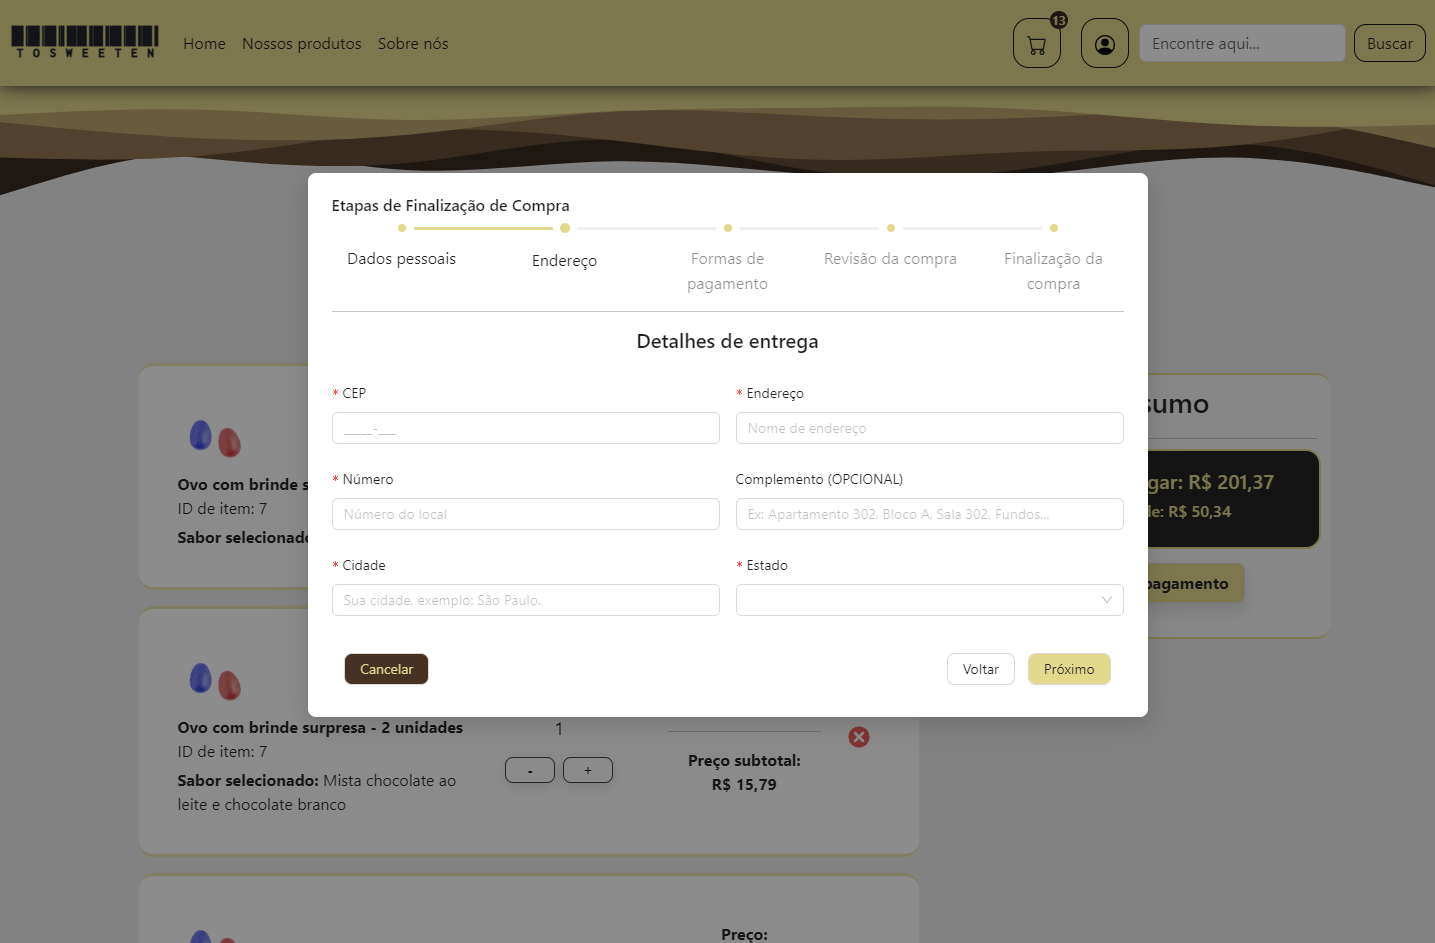
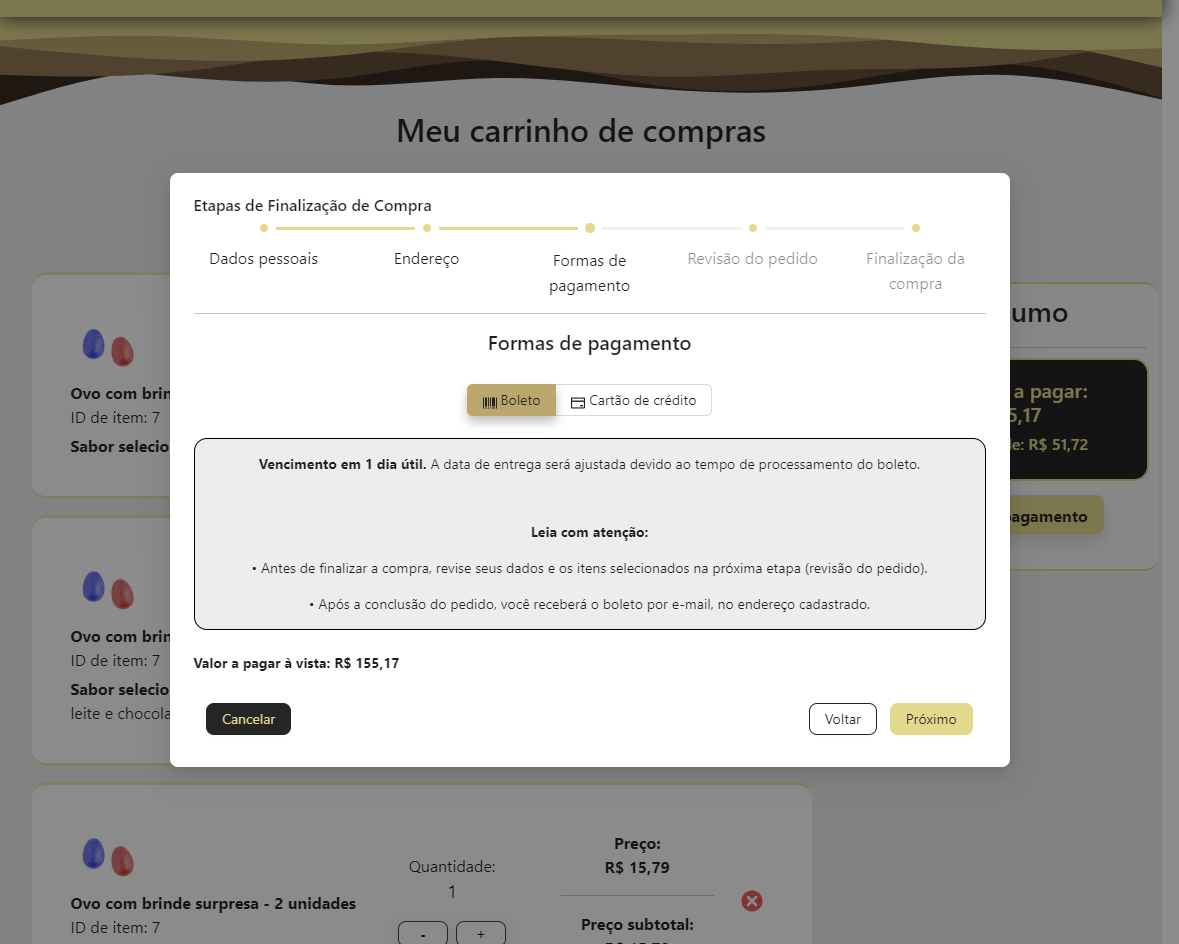
Implementação de componente Radio na opção de pagamento e atualização do estilo.

diff --git a/src/components/Inputs/CardDataInputs.jsx b/src/components/Inputs/CardDataInputs.jsx
@@ -1,11 +1,13 @@
 import ReCAPTCHA from "react-google-recaptcha";
-
 import PropTypes from "prop-types";
 import { FormCard } from "./forms/formCard";
 import { handleCardNameChange } from "../../utils/formatteDate/HandleCardNameChange";
 import { HandleCardNumberChange } from "../../utils/formatteDate/HandleCardNumberChange";
 import { HandleCardExpirationChange } from "../../utils/formatteDate/HandleVencimento";
 import { HandleCardCVVChange } from "../../utils/formatteDate/HandleCVVChange";
+import { PaymentMethodsRadio } from "../Radios/PaymentMethodsRadio";
+import { useState } from "react";
+import { SelectedPaymentIsBoleto } from "../Texts/SelectedPaymentIsBoleto";
 
 export function CardDataInputs({ formData, handleChange }) {
   const handleCardNameChangeWrapper = (e) => {
@@ -24,22 +26,33 @@ export function CardDataInputs({ formData, handleChange }) {
     HandleCardCVVChange(e.target.value, handleChange);
   };
 
+  const [selectedOption, setSelectedOption] = useState("Boleto");
+
   return (
     <div>
       <h5 className="center">Formas de pagamento</h5>
       <br />
-      <FormCard
-        formData={formData}
-        handleChange={handleChange}
-        handleCardNameChangeWrapper={handleCardNameChangeWrapper}
-        handleCardNumberChangeWrapper={handleCardNumberChangeWrapper}
-        handleCardExpirationChangeWrapper={handleCardExpirationChangeWrapper}
-        handleCardCVVChangeWrapper={handleCardCVVChangeWrapper}
-      />
-
-      <div style={{ margin: "2rem" }}>
-        <ReCAPTCHA sitekey="SUA_CHAVE_PUBLICA_DO_RECAPTCHA" />
-      </div>
+      <PaymentMethodsRadio setSelectedOption={setSelectedOption} />
+      <br />
+      {selectedOption === "Boleto" ? (
+        <SelectedPaymentIsBoleto />
+      ) : (
+        <>
+          <FormCard
+            formData={formData}
+            handleChange={handleChange}
+            handleCardNameChangeWrapper={handleCardNameChangeWrapper}
+            handleCardNumberChangeWrapper={handleCardNumberChangeWrapper}
+            handleCardExpirationChangeWrapper={
+              handleCardExpirationChangeWrapper
+            }
+            handleCardCVVChangeWrapper={handleCardCVVChangeWrapper}
+          />
+          <div style={{ margin: "2rem" }}>
+            <ReCAPTCHA sitekey="SUA_CHAVE_PUBLICA_DO_RECAPTCHA" />
+          </div>
+        </>
+      )}
     </div>
   );
 }

diff --git a/src/css/DialogPayment/buttonContainer.css b/src/css/DialogPayment/buttonContainer.css
@@ -3,10 +3,14 @@
   font-weight: bold;
   cursor: pointer;
   border-radius: 8px;
+  border-color: #453222 !important;
+  outline-color: #453222 !important;
 }
 
 .btn-container Button {
   border-radius: 8px !important;
+  border-color: #453222 !important;
+  outline-color: #453222 !important;
 }
 
 .custom-dialog-actions {
@@ -16,7 +20,9 @@
 }
 
 .btn-container Button:hover {
-  box-shadow: 0px 8px 20px rgba(000, 000, 000, 0.24);
+  box-shadow: 0px 4px 20px rgba(000, 000, 000, 0.24);
+  border-color: #453222 !important;
+  outline-color: #453222 !important;
 }
 
 .btn-container {
@@ -26,6 +32,8 @@
   gap: 1rem;
   padding: 0.8rem;
   flex-grow: 1;
+  border-color: #453222 !important;
+  outline-color: #453222 !important;
 }
 
 .button-back-and-next {
@@ -39,35 +47,44 @@
 #btn-finalize-payment {
   background-color: #e3d98d !important;
   color: #252525 !important;
-  transition: 0.3s ease-in-out !important;
+  transition: 0.3s ease-in-out;
+  border-color: #e3d98d !important;
 }
 
 #btn-next-payment:hover,
 #btn-finalize-payment:hover {
-  background-color: transparent !important;
+  background-color: #bba66e !important;
   color: #252525 !important;
-  border-color: #252525 !important;
+  border-color: #bba66e !important;
   transition: 0.3s ease-in-out;
 }
 
 #btn-cancel-payment {
-  background-color: #453222 !important;
+  background-color: #252525 !important;
+  border-color: #252525 !important;
   color: #e3d98d !important;
   transition: 0.3s ease-in-out !important;
 }
 
 #btn-cancel-payment:hover {
-  background-color: transparent !important;
+  background-color: #bba66e !important;
   color: #252525 !important;
   transition: 0.3s ease-in-out;
+  border-color: #bba66e !important;
+}
+
+#btn-back-payment {
+  background-color: transparent !important;
+  color: #252525 !important;
+  transition: 0.3s ease-in-out !important;
   border-color: #252525 !important;
 }
 
 #btn-back-payment:hover {
-  background-color: transparent !important;
+  background-color: #bba66e !important;
   color: #252525 !important;
   transition: 0.3s ease-in-out;
-  border-color: #252525 !important;
+  border-color: #bba66e !important;
 }
 
 @media (max-width: 500px) {

diff --git a/src/components/Texts/SelectedPaymentIsBoleto.jsx b/src/components/Texts/SelectedPaymentIsBoleto.jsx
@@ -1,0 +1,34 @@
+import { useSelector } from "react-redux";
+import { getFormattedPriceValue } from "../../utils/prices/priceUtils";
+
+export function SelectedPaymentIsBoleto() {
+  const value = useSelector((state) => state.cart.priceTotal);
+  return (
+    <>
+      <div className="boleto center">
+        <p>
+          <strong>Vencimento em 1 dia útil.</strong> A data de entrega será
+          ajustada devido ao tempo de processamento do boleto.
+        </p>
+        <br />
+        <p>
+          <strong>Leia com atenção:</strong>
+        </p>
+        <p>
+          {" "}
+          • Antes de finalizar a compra, revise seus dados e os itens
+          selecionados na próxima etapa (revisão do pedido).
+        </p>
+        <p>
+          {" "}
+          • Após a conclusão do pedido, você receberá o boleto por e-mail, no
+          endereço cadastrado.
+        </p>
+      </div>
+      <br />
+      <p>
+        <strong>Valor a pagar à vista: {getFormattedPriceValue(value)}</strong>
+      </p>
+    </>
+  );
+}

diff --git a/src/components/Radios/PaymentMethodsRadio.jsx b/src/components/Radios/PaymentMethodsRadio.jsx
@@ -1,0 +1,43 @@
+import { Radio } from "antd";
+import { BarcodeOutlined, CreditCardOutlined } from "@ant-design/icons";
+
+import PropTypes from "prop-types";
+
+export function PaymentMethodsRadio({ setSelectedOption }) {
+  const handleSelectedOption = (e) => {
+    setSelectedOption(e.target.value);
+  };
+
+  const PaymentOptions = [
+    {
+      label: (
+        <span>
+          <BarcodeOutlined /> Boleto
+        </span>
+      ),
+      value: "Boleto",
+    },
+    {
+      label: (
+        <span>
+          <CreditCardOutlined /> Cartão de crédito
+        </span>
+      ),
+      value: "Cartão de crédito",
+    },
+  ];
+  return (
+    <div className="center">
+      <Radio.Group
+        optionType="button"
+        options={PaymentOptions}
+        onChange={handleSelectedOption}
+        defaultValue="Boleto"
+      ></Radio.Group>
+    </div>
+  );
+}
+
+PaymentMethodsRadio.propTypes = {
+  setSelectedOption: PropTypes.func.isRequired,
+};

diff --git a/src/css/SlickSliderListProduct.css b/src/css/SlickSliderListProduct.css
@@ -88,8 +88,8 @@ button.slick-next:before {
 
 .card-body-action .card-link {
   background-color: rgb(255, 255, 255);
-  border: 1px solid #453222;
-  color: #252525;
+  border: 1px solid #ddd;
+  color: #45322e !important;
   width: 10rem;
   font-size: 15px;
   border-radius: 10px;
@@ -106,10 +106,10 @@ button.slick-next:before {
 .card-link:hover {
   transition: 0.24s ease-in-out;
   text-decoration: none;
-  background: #453222 !important;
-  color: #e3d98d !important;
-  border: 1px solid #453222 !important;
-  box-shadow: 0px 15px 20px rgba(416, 229, 157, 0.5);
+  box-shadow: 0px 2px 20px rgba(0, 0, 0, 0.1) !important;
+  background-color: #bba66e !important;
+  color: #252525 !important;
+  border-color: #bba66e !important;
 }
 
 .card-image-slick {

diff --git a/src/components/Radios/FlavorRadio.jsx b/src/components/Radios/FlavorRadio.jsx
@@ -2,7 +2,7 @@ import React, { useState } from "react";
 import PropTypes from "prop-types";
 import { NotificationInfo } from "../Notifications/NotificationInfo";
 
-export function RadioColor({ availableColors, onFlavorChance, initFlavor }) {
+export function FlavorRadio({ availableColors, onFlavorChance, initFlavor }) {
   const [selected, setSelected] = useState(initFlavor);
 
   const handleColorSelecionada = (event) => {
@@ -46,7 +46,7 @@ export function RadioColor({ availableColors, onFlavorChance, initFlavor }) {
   );
 }
 
-RadioColor.propTypes = {
+FlavorRadio.propTypes = {
   availableColors: PropTypes.arrayOf(PropTypes.string),
   onFlavorChance: PropTypes.func.isRequired,
   initFlavor: PropTypes.string.isRequired,

diff --git a/src/pages/ProductDetail.jsx b/src/pages/ProductDetail.jsx
@@ -1,4 +1,4 @@
-import { RadioColor } from "../components/Radios/RadioColor";
+import { FlavorRadio } from "../components/Radios/FlavorRadio";
 import { ButtonToCartOrBuyNow } from "../components/Buttons/ButtonToCartOrBuyNow";
 import { ImageDetailProduct } from "../components/Imagens/ImageDetailProduct";
 import { ValorDoProduto } from "../components/Texts/ValorDoProduto";
@@ -70,7 +70,7 @@ export default function ProductDetail() {
             initQuantity={selectedQuantity}
           />
           <hr />
-          <RadioColor
+          <FlavorRadio
             availableColors={selectedProduct.availableColors}
             onFlavorChance={handleFlavorChange}
             initFlavor={selectedFlavor}

diff --git a/src/css/DialogPayment/PaymentMethodsRadios.css b/src/css/DialogPayment/PaymentMethodsRadios.css
@@ -1,0 +1,21 @@
+.ant-radio-button-wrapper:hover {
+  color: #bba66e !important;
+
+  border-color: #bba66e !important;
+  background-color: #fffeff !important;
+}
+
+.ant-radio-button-wrapper-checked:not(.ant-radio-button-wrapper-disabled) {
+  border-color: #bba66e !important;
+  color: #252525 !important;
+  background-color: #bba66e !important;
+  box-shadow: 0px 6px 10px rgba(000, 000, 000, 0.25);
+}
+
+.ant-radio-button-wrapper-checked:not(
+    .ant-radio-button-wrapper-disabled
+  )::before {
+  border-color: #bba66e !important;
+  color: #e3d98d !important;
+  background-color: #bba66e !important;
+}

diff --git a/src/css/buttonClearCart.css b/src/css/buttonClearCart.css
@@ -15,17 +15,9 @@
 }
 
 .button-clean-cart:hover {
-  background-color: #45322e;
-  box-shadow: 0px 15px 20px rgba(416, 229, 157, 0.5);
-  color: #e3d98d !important;
-  border-color: #e3d98d !important;
-  transition: 0.3s ease-in-out;
-}
-
-.button-clean-cart:active {
-  background-color: #45322e;
-  box-shadow: 0px 15px 20px rgba(416, 229, 157, 0.5);
-  color: #e3d98d !important;
-  border-color: #e3d98d !important;
+  background-color: #bca76e;
+  box-shadow: 0px 2px 20px rgba(0, 0, 0, 0.5);
+  color: #252525 !important;
+  border-color: #bba66e !important;
   transition: 0.3s ease-in-out;
 }

diff --git a/index.html b/index.html
@@ -42,6 +42,9 @@
   <link href="../src/css/DialogPayment/stepper.css" rel="stylesheet">
   <link href="../src/css/DialogPayment/ButtonCloseModal.css" rel="stylesheet">
   <link href="../src/css/DialogPayment/RecipientDataReview.css" rel="stylesheet">
+  <link href="../src/css/DialogPayment/Pagination.css" rel="stylesheet">
+  <link href="../src/css/DialogPayment/PaymentMethodsRadios.css" rel="stylesheet">
+  <link href="../src/css/DialogPayment/BoletoText.css" rel="stylesheet">
 
 
 

diff --git a/src/css/Contador.css b/src/css/Contador.css
@@ -33,10 +33,9 @@
 #buttonAumentoOuDesfaz Button:hover {
   box-shadow: 0px 15px 20px rgba(400, 229, 157, 0.3);
   transition: 0.2s linear;
-  color: #45322e !important;
-  background: #45322e !important;
-  color: #e3d98d !important;
-  border-color: #45322e !important;
+  color: #252525 !important;
+  background: #bba66e !important;
+  border-color: #bba66e !important;
 }
 
 #buttonAumentoOuDesfaz Button:active {

diff --git a/src/css/imageInPageDetail.css b/src/css/imageInPageDetail.css
@@ -86,10 +86,9 @@
 #prev-slide-Detail:hover {
   box-shadow: 0px 15px 20px rgba(400, 229, 157, 0.3);
   transition: 0.2s linear;
-  color: #45322e !important;
-  background: #45322e !important;
-  color: #e3d98d !important;
-  border-color: #45322e !important;
+  background: #bba66e !important;
+  color: #252525 !important;
+  border-color: #bba66e !important;
   border: none !important;
 }
 
